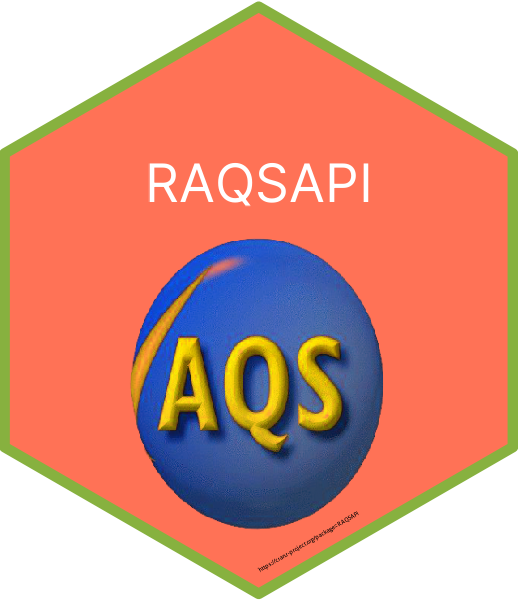
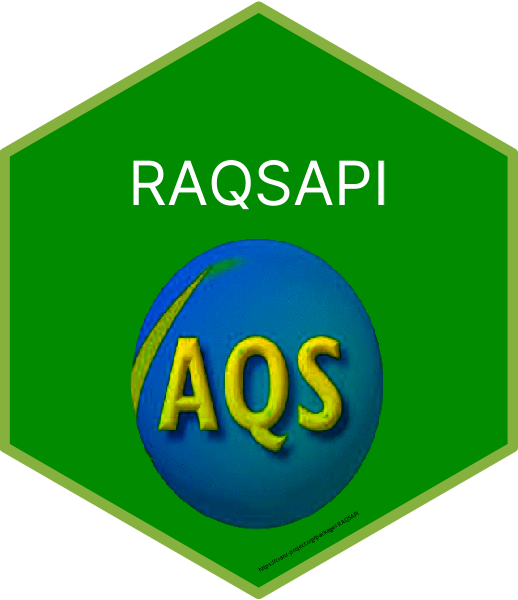
add hexlogo

diff --git a/README.md b/README.md
@@ -21,7 +21,8 @@ Clinton Mccrowey, physical scientist - US EPA
 -   [Acknowledgements](#acknowledgements)
 -   [References](#references)
 
-<!-- ![RAQSAPI hexsticker](./vignettes/figures/RAQSAPIhexsticker.png){width=20%} -->
+<img src="./vignettes/figures/RAQSAPIhexsticker.png" style="width:20.0%" />
+
 <!-- badges: start -->
 
 [![Project Status: Active – The project has reached a stable, usable
@@ -35,7 +36,7 @@ status](https://www.r-pkg.org/badges/version/RAQSAPI)](https://CRAN.R-project.or
 downloads](https://cranlogs.r-pkg.org/badges/RAQSAPI)](https://cran.r-project.org/package=RAQSAPI)
 [![lifecycle](https://img.shields.io/badge/lifecycle-maturing-blue.svg)](https://www.tidyverse.org/lifecycle/#maturing)
 [![license](https://img.shields.io/badge/license-CC0-lightgrey.svg)](https://choosealicense.com/)
-[![Last-changedate](https://img.shields.io/badge/last%20change-%202021--11--15-blue.svg)](/commits/master)
+[![Last-changedate](https://img.shields.io/badge/last%20change-%202021--11--16-blue.svg)](/commits/master)
 <!-- badges: end -->
 
 # EPA Disclaimer
